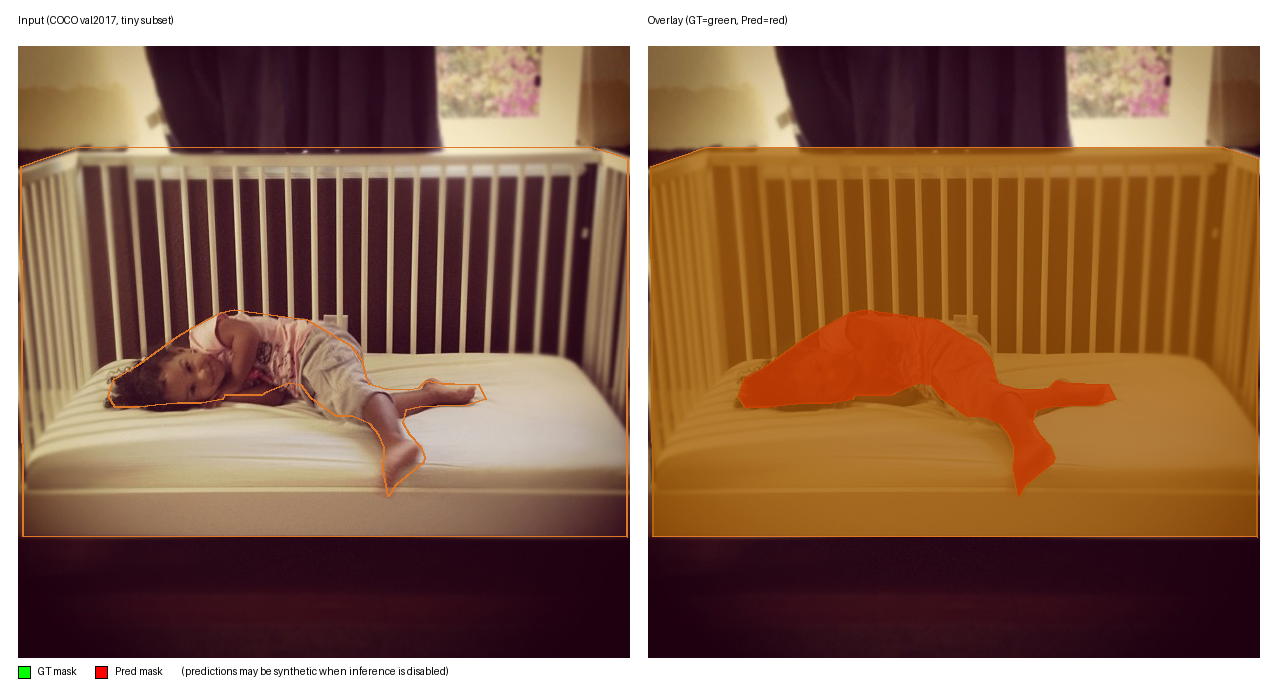
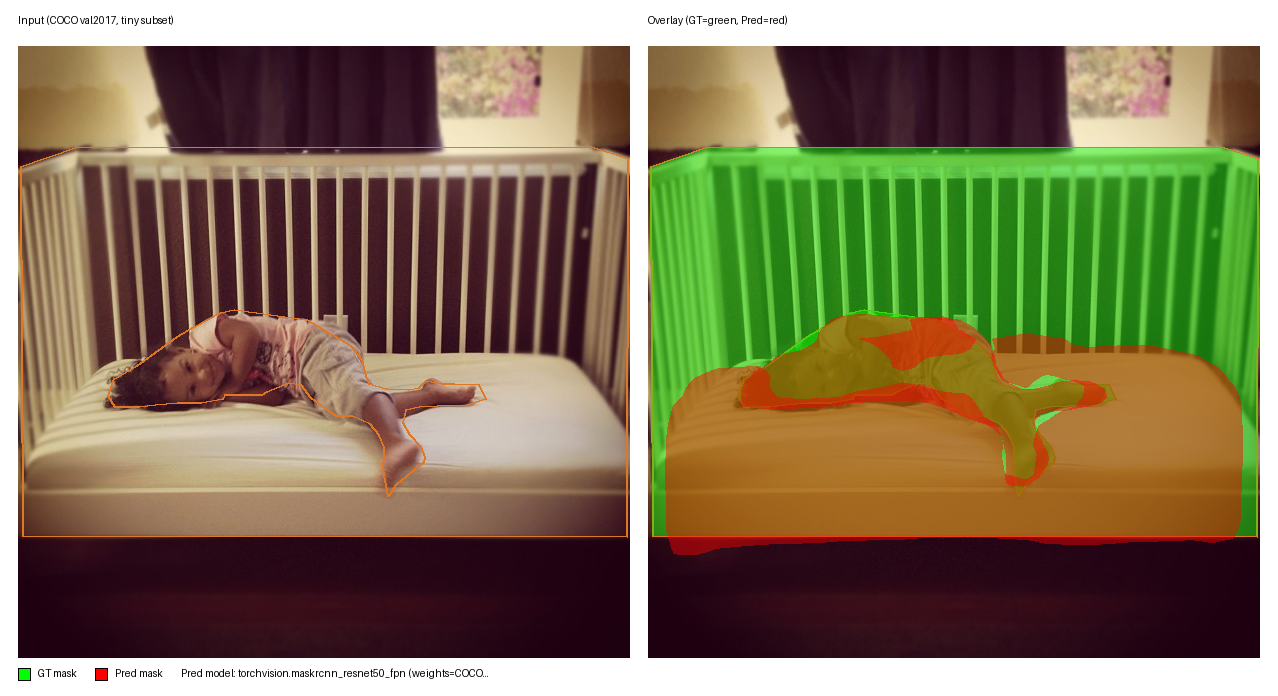
docs: update README screenshot to real model inference

diff --git a/README.md b/README.md
@@ -46,7 +46,7 @@ python3 tools/run_external_finetune_smoke.py --dataset-root data/smoke --split t
 
 Visual evidence (example overlays produced by the instance-seg demo):
 
-![Instance-seg demo (real COCO image) overlay evidence](docs/assets/instance_seg_coco_instances_demo.png)
+![Instance-seg demo (real COCO image + torchvision Mask R-CNN inference) overlay evidence](docs/assets/instance_seg_coco_instances_demo.png)
 
 
 ## Quickstart (repo checkout, run this first)

diff --git a/Readme_jp.md b/Readme_jp.md
@@ -61,7 +61,7 @@ python3 tools/run_external_finetune_smoke.py --dataset-root data/smoke --split t
 
 可視確認（instance-seg demo overlay 例）:
 
-![Instance-seg demo (real COCO image) overlay evidence](docs/assets/instance_seg_coco_instances_demo.png)
+![Instance-seg demo (real COCO image + torchvision Mask R-CNN inference) overlay evidence](docs/assets/instance_seg_coco_instances_demo.png)
 
 対象:
 - リアルタイム単眼 RGB **検出**
